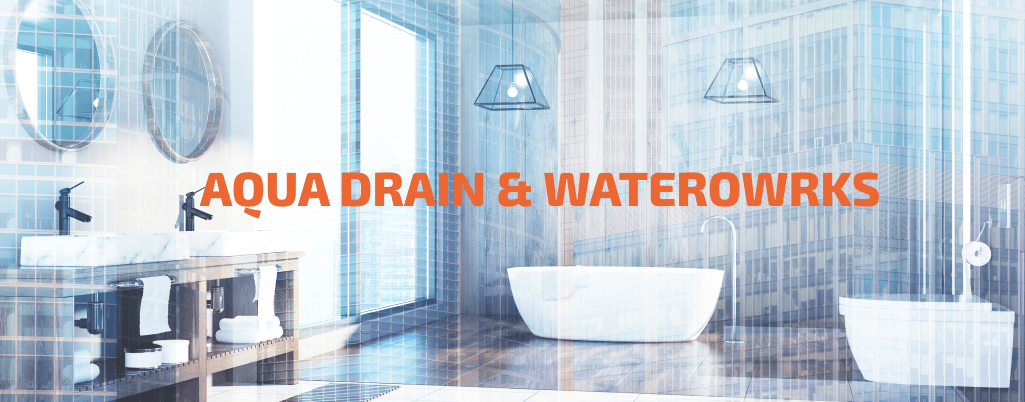
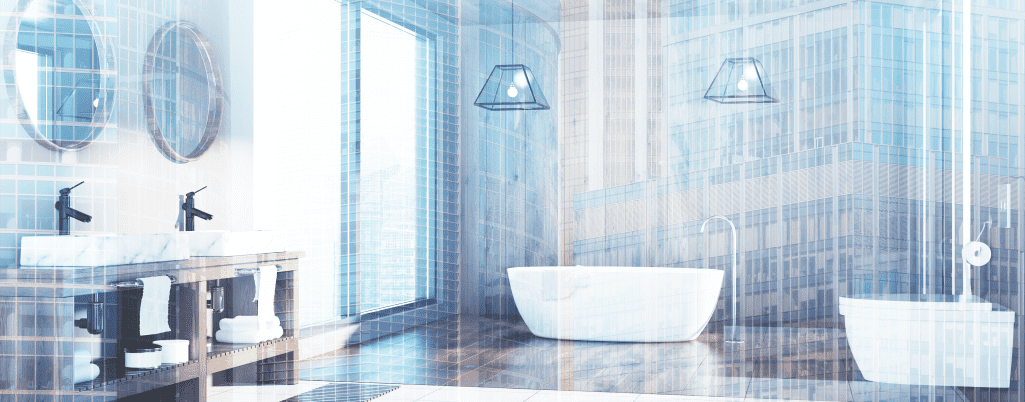
removed label from a background and put it as a text

Changed region(s): [[0.1873, 0.4179, 0.8741, 0.5373]]

diff --git a/css/site.css b/css/site.css
@@ -6,6 +6,7 @@ body {
     background-position: center, center;
     background-position-y: top, 120px;
     background-repeat: no-repeat, no-repeat;
+    background-color: #f2f6ff;
 
     transition: linear all 0.5s;
 }
@@ -67,11 +68,50 @@ td#phoneCell {
     height: 20px;
 }
 
+.backgroundFiller {
+    height: 460px;
+    min-height: 460px;
+    display: flex;
+    max-width: 900px;
+    margin: auto;
+}
+
+.backgroundFiller div {
+    display: flex;
+    margin: 0 auto;
+
+    vertical-align: middle;
+    display: -ms-flexbox;
+    -ms-flex-pack: center;
+    align-items: center;
+    justify-content: center;
+    max-width: 900px;
+}
+
+.backgroundFiller div div{
+    font-family: 'Exo 2 Black', sans-serif;
+    font-weight: bolder;
+    font-size: 6vw;
+    color: #f4511e;
+    margin: 0 5px;
+}
+
+@media screen and (max-width: 600px)
+{
+    .backgroundFiller div {
+        flex-direction: column;
+    }
+}
+
+@media screen and (min-width: 1020px)
+{
+    .backgroundFiller div div {
+        font-size: 60px;
+    }
+}
 
 .xContent {
-    margin-top: 460px;
-    margin-left: auto;
-    margin-right: auto;
+    margin: 0 auto;
     max-width: 900px;
 }
 

diff --git a/index.html b/index.html
@@ -53,6 +53,14 @@
         </div>
     </div>
 
+    <div class="backgroundFiller">
+        <div>
+            <div>AQUA DRAIN</div>
+            <div>&amp;</div>
+            <div>WATERWORKS</div>
+        </div>
+    </div>
+
     <div id="content">
         <div class="xContent" id="mainContentTable">
             <div class="xChapterHeader">
